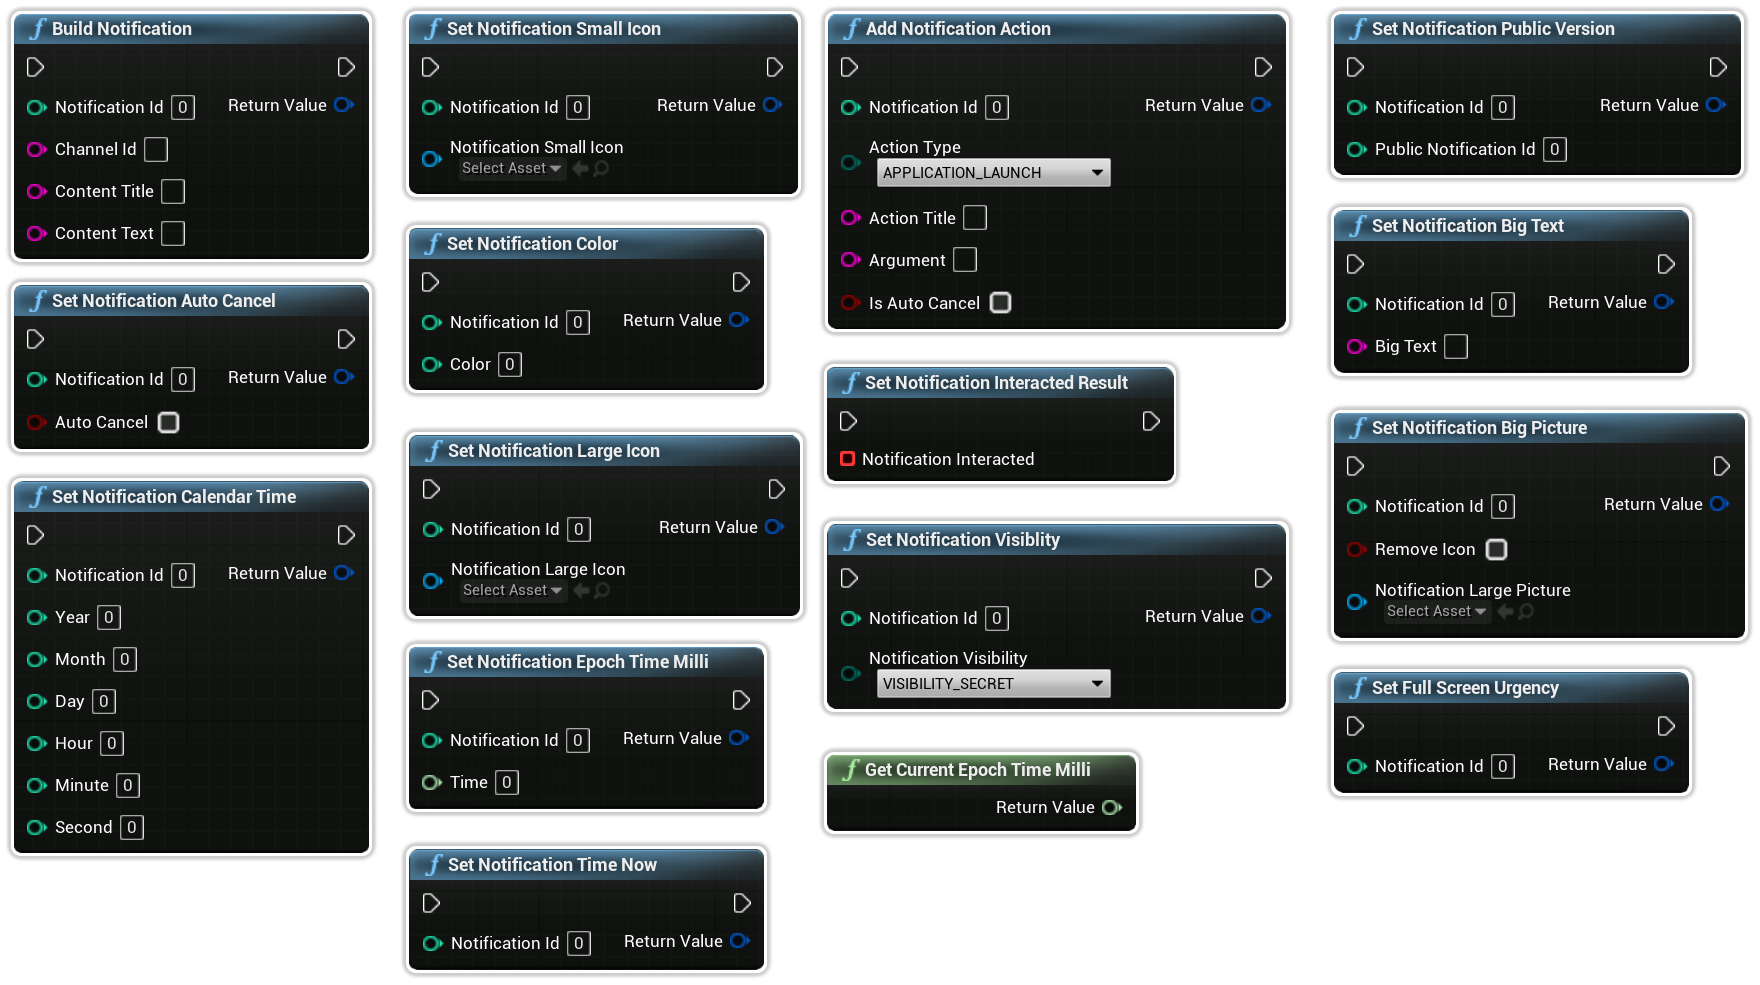
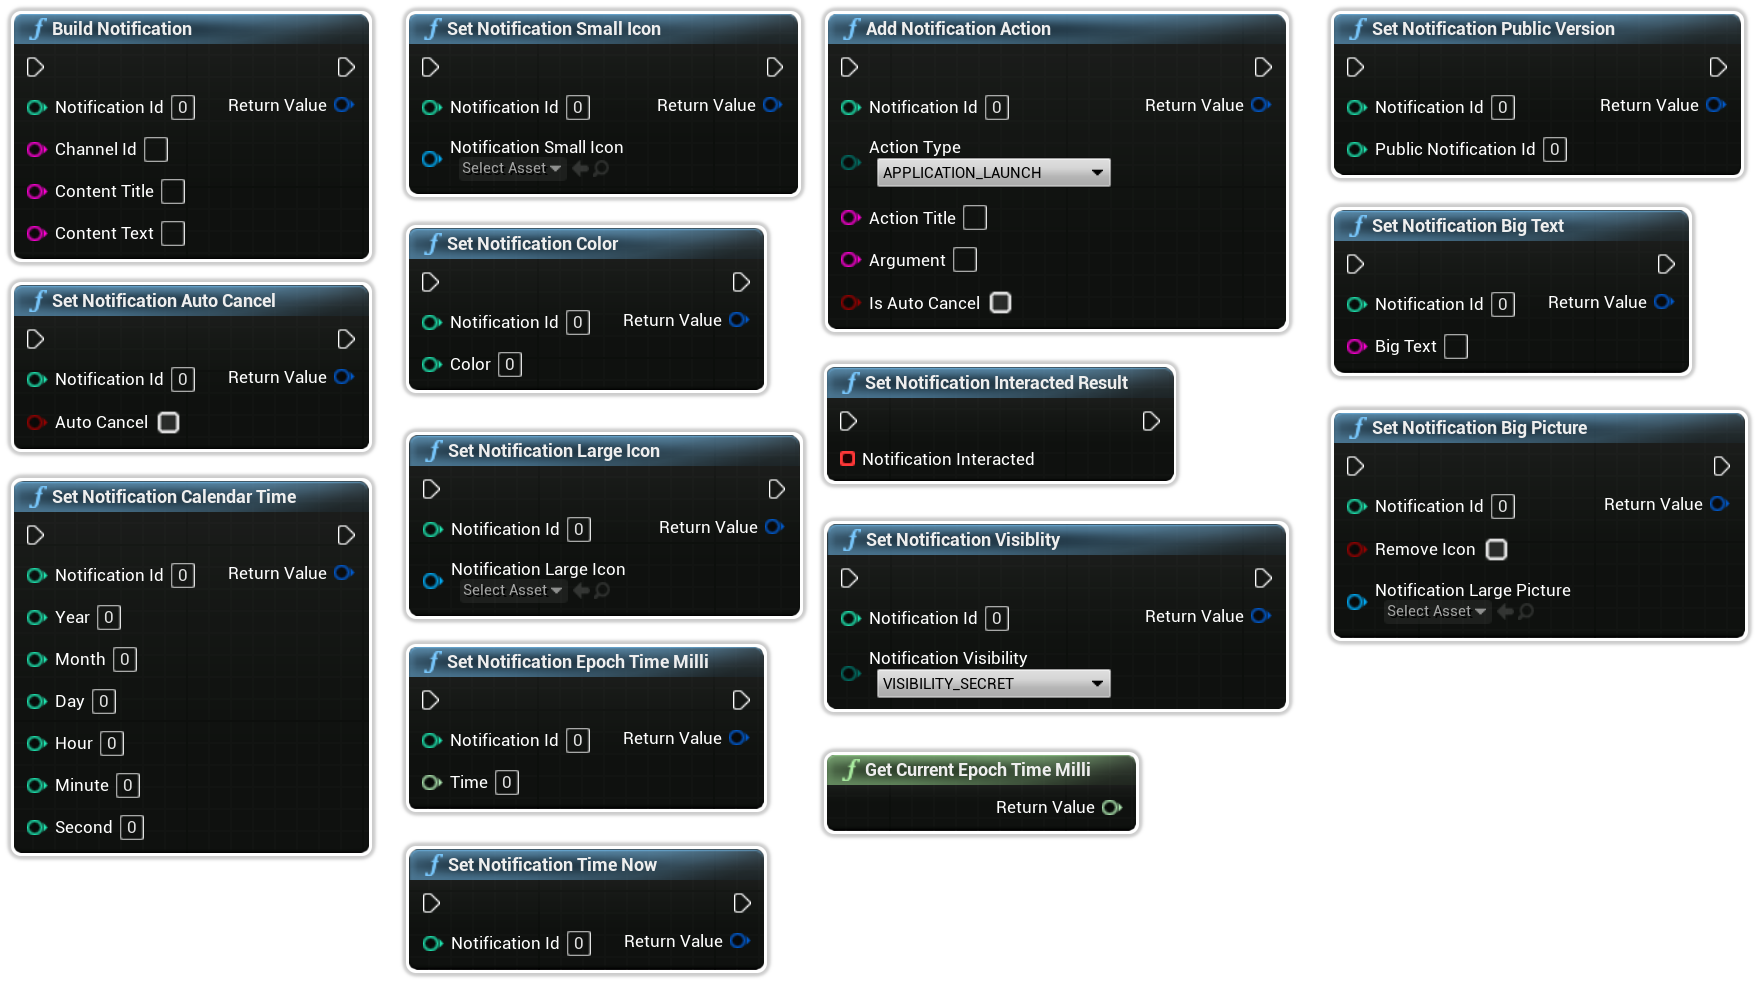
remove setFullScreenUrgency

Changed region(s): [[0.75, 0.6701, 0.9688, 0.8223]]

diff --git a/plugins/android-native/notifications/builder.html b/plugins/android-native/notifications/builder.html
@@ -921,41 +921,6 @@
                     </div>
                 </div>
 
-                <div class="container" style="margin-left: 0px; padding-left: 0px; margin-bottom: 20px; margin-top: 20px; margin-right: 20px;">
-                    <h1 class="h3 text-white-shadow">Set Full Screen Urgency</h1>
-                </div>
-                <div class="container" style="margin-left: 0px; padding-left: 0px;">
-                    <div class="info" style="border-top-left-radius: 20px;">
-                        <p class="content">
-                            This indicates that the notification is an urgent, time-sensitive message.
-                        </p>
-                        <p class="content">
-                            If the users device is locked, a full-screen activity appears, covering the lockscreen.
-                            If the user's device is unlocked, the notification appears in an expanded form that includes options for handling or dismissing the notification.
-                        </p>
-                        <p class="content" style="margin-bottom: 0rem;">
-                            <span style="font-weight: 500">NOTE:</span> You should only use this for the most urgent, time-sensitive messages as it is very intrusive.
-                        </p>
-                    </div>
-                </div>
-                <div class="container" style="margin-left: 0px; padding-left: 0px; padding-top: 20px; padding-bottom: 20px">
-                    <div style="display: flex; justify-content: center; align-items: center;">
-                        <img src="../../../images/AndroidNotifications/BP_SetFullScreenUrgency.png">
-                    </div>
-                </div>
-                <div style="padding-top: 20px">
-                    <div class="container" style="margin-left: 0px; padding-left: 0px; position: relative;">
-                        <div class="info" style="border-bottom-left-radius: 20px;">
-                            <p class="content">
-                                <b>Notification ID</b>
-                            </p>
-                            <p class="content" style="margin-bottom: 0rem;">
-                                The id of the notification. Must be unique per notification.
-                            </p>
-                        </div>
-                    </div>
-                </div>
-
                 <div style="margin-bottom: 200px">
                 </div>
             </main>
